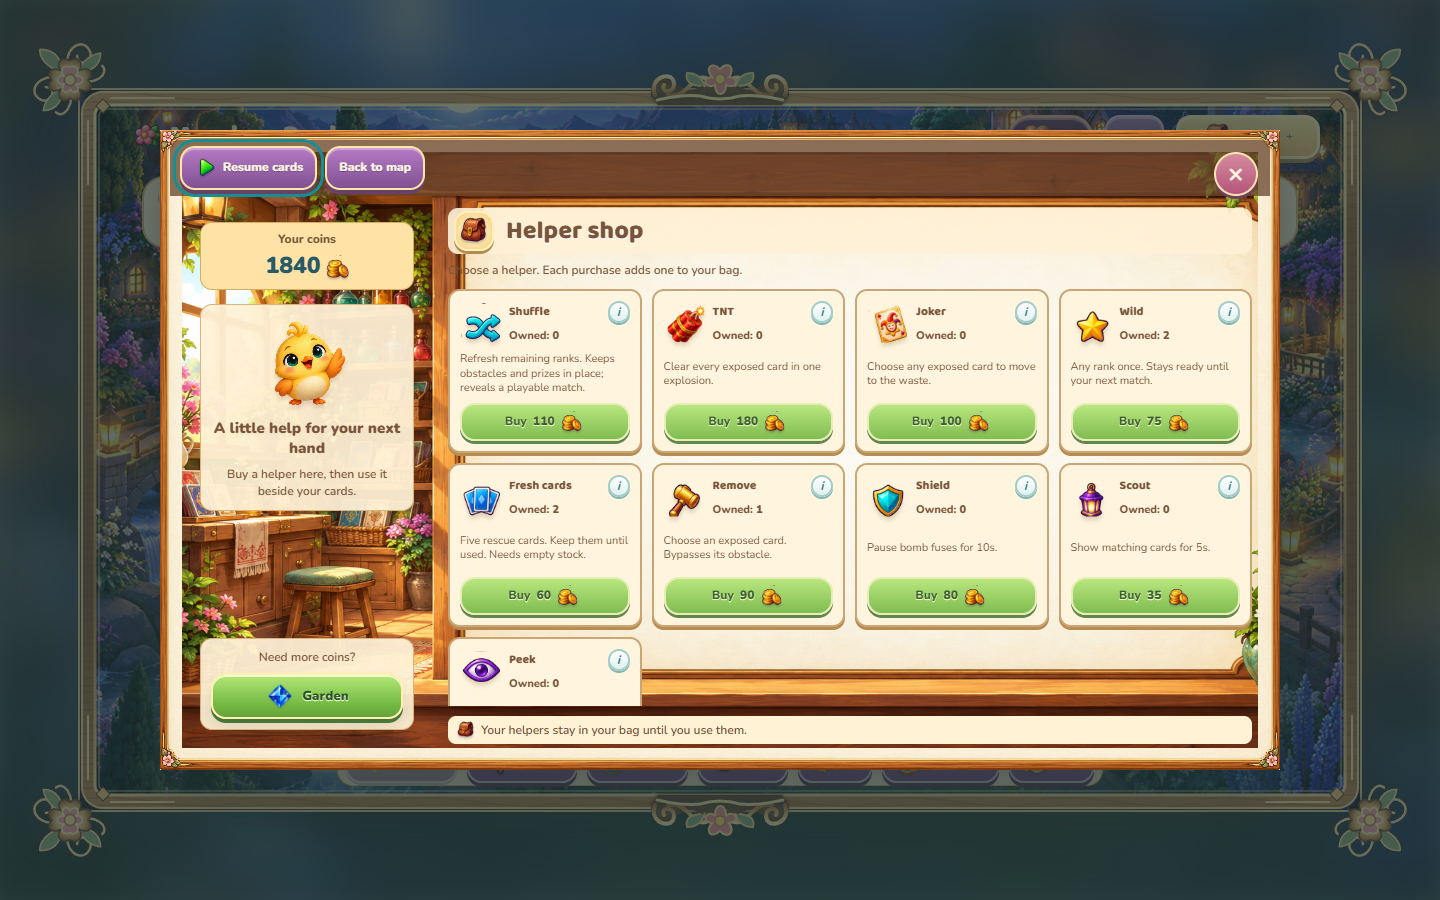
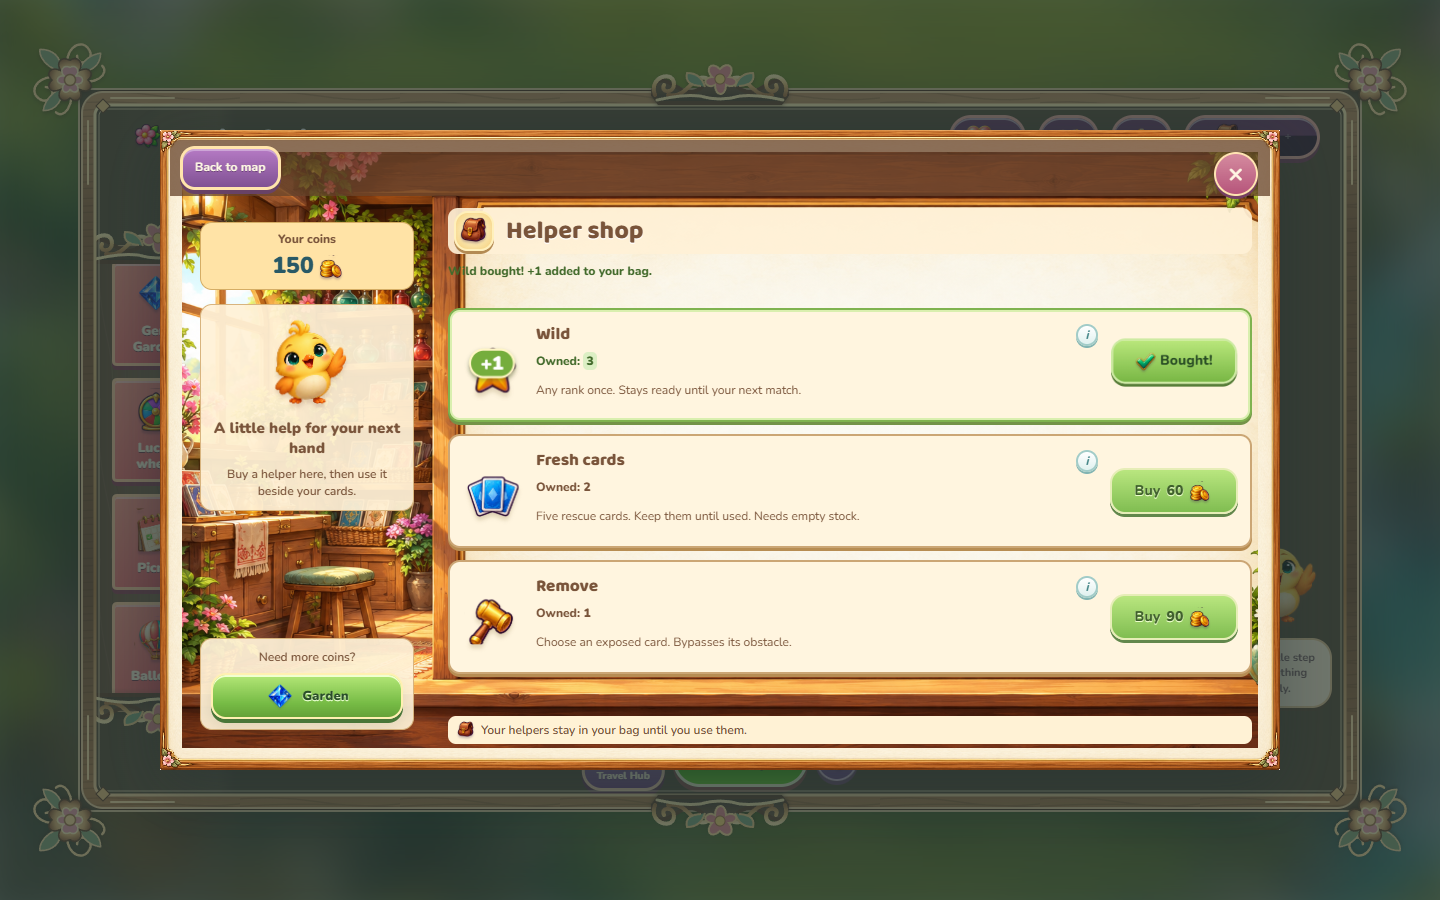
Confirm shop purchases with Bought feedback and floating item gains

diff --git a/web/index.html b/web/index.html
@@ -1,3 +1,3 @@
 <!doctype html>
 <!-- The fixed cabinet uses the shared browser/desktop modules. Styles load from base rules to surface-specific overrides; keep the import map aligned with the build version. -->
-<html lang="en"><head><meta charset="utf-8"><meta name="viewport" content="width=device-width,initial-scale=1"><meta name="meadow-build" content="2.5.4"><meta name="theme-color" content="#174d43"><title>Meadow Peaks · A little card adventure</title><link rel="icon" href="icon.svg" type="image/svg+xml"><link rel="stylesheet" href="style.css?v=2.5.4"><link rel="stylesheet" href="ui-theme.css?v=2.5.4"><link rel="stylesheet" href="map-ui.css?v=2.5.4"><link rel="stylesheet" href="help-ui.css?v=2.5.4"><link rel="stylesheet" href="progress-ui.css?v=2.5.4"><link rel="stylesheet" href="lives-ui.css?v=2.5.4"><link rel="stylesheet" href="settings-ui.css?v=2.5.4"><link rel="stylesheet" href="typography.css?v=2.5.4"><link rel="stylesheet" href="menu-polish.css?v=2.5.4"><link rel="stylesheet" href="mobile-polish.css?v=2.5.4"><link rel="stylesheet" href="story-play.css?v=2.5.4"><link rel="stylesheet" href="pip-home.css?v=2.5.4"><link rel="stylesheet" href="reference-polish.css?v=2.5.4"><link rel="stylesheet" href="adventure-restyle.css?v=2.5.4"><link rel="stylesheet" href="phone-ui.css?v=2.5.4"><link rel="stylesheet" href="framed-surfaces.css?v=2.5.4"><link rel="stylesheet" href="game-frame.css?v=2.5.4"><link rel="stylesheet" href="layout-720.css?v=2.5.4"><link rel="stylesheet" href="notice-board.css?v=2.5.4"><link rel="stylesheet" href="menu-boards.css?v=2.5.4"><link rel="stylesheet" href="menu-places.css?v=2.5.4"><link rel="stylesheet" href="guide-frames.css?v=2.5.4"><link rel="stylesheet" href="picnic-menu.css?v=2.5.4"></head><body><div class="landscape" aria-hidden="true"><div class="sun"></div><div class="cloud c1"></div><div class="cloud c2"></div><div class="hill far"></div><div class="hill middle"></div><div class="hill near"></div><span class="flower f1">✿</span><span class="flower f2">✿</span><span class="flower f3">✿</span></div><header><button data-action="home" class="brand">✿ <span>Meadow Peaks<small>A little card adventure</small></span></button><nav><button data-action="guide" aria-label="How to play">?</button><button data-action="settings" aria-label="Settings">⚙</button><button data-action="shop" class="wallet">● <span id="coins">300</span> <small>＋</small></button></nav></header><main id="app"></main><div id="toast" role="status" aria-live="polite"></div><dialog id="dialog"><div id="modal"></div><button class="close" data-action="close" aria-label="Close dialog">×</button></dialog><div id="sparks" aria-hidden="true"></div><footer>Made for unhurried adventures. <button data-action="guide">How to play</button></footer><script type="importmap">{"imports":{"./generated-content.mjs":"./generated-content.mjs?v=2.5.4","./celebration-effects.mjs":"./celebration-effects.mjs?v=2.5.4","./ambient-attention.mjs":"./ambient-attention.mjs?v=2.5.4","./game-frame.mjs":"./game-frame.mjs?v=2.5.4","./wheel-view.mjs":"./wheel-view.mjs?v=2.5.4","./hand-progress.mjs":"./hand-progress.mjs?v=2.5.4","./play-surface.mjs":"./play-surface.mjs?v=2.5.4","./rank-shuffle.mjs":"./rank-shuffle.mjs?v=2.5.4","./story-layouts-v4.mjs":"./story-layouts-v4.mjs?v=2.5.4","./pip-home.mjs":"./pip-home.mjs?v=2.5.4","./play-actions.mjs":"./play-actions.mjs?v=2.5.4","./motion.mjs":"./motion.mjs?v=2.5.4","./win-summary.mjs":"./win-summary.mjs?v=2.5.4","./tableau-viewport.mjs":"./tableau-viewport.mjs?v=2.5.4","./pip-view.mjs":"./pip-view.mjs?v=2.5.4","./chest-tiers.mjs":"./chest-tiers.mjs?v=2.5.4","./chest-view.mjs":"./chest-view.mjs?v=2.5.4","./state-art.mjs":"./state-art.mjs?v=2.5.4","./level-presentation.mjs":"./level-presentation.mjs?v=2.5.4","./win-rewards.mjs":"./win-rewards.mjs?v=2.5.4","./play-viewport.mjs":"./play-viewport.mjs?v=2.5.4","./audio-controls.mjs":"./audio-controls.mjs?v=2.5.4","./resource-view.mjs":"./resource-view.mjs?v=2.5.4","./level-preview.mjs":"./level-preview.mjs?v=2.5.4","./lives-panel.mjs":"./lives-panel.mjs?v=2.5.4","./ui-markup.mjs":"./ui-markup.mjs?v=2.5.4","./feature-tutorials.mjs":"./feature-tutorials.mjs?v=2.5.4","./celebration-effects.mjs":"./celebration-effects.mjs?v=2.5.4","./semantic-icons.mjs":"./semantic-icons.mjs?v=2.5.4","./progress-view.mjs":"./progress-view.mjs?v=2.5.4","./lives.mjs":"./lives.mjs?v=2.5.4","./menu-journey.mjs":"./menu-journey.mjs?v=2.5.4","./audio-engine.mjs":"./audio-engine.mjs?v=2.5.4","./presentation-flow.mjs":"./presentation-flow.mjs?v=2.5.4","./chapter-collection.mjs":"./chapter-collection.mjs?v=2.5.4","./side-activities.mjs":"./side-activities.mjs?v=2.5.4","./card-orientation.mjs":"./card-orientation.mjs?v=2.5.4","./progression.mjs":"./progression.mjs?v=2.5.4","./mode-scenes.mjs":"./mode-scenes.mjs?v=2.5.4","./visual-cues.mjs":"./visual-cues.mjs?v=2.5.4","./ui-shell.mjs":"./ui-shell.mjs?v=2.5.4","./art-catalog.mjs":"./art-catalog.mjs?v=2.5.4","./customization.mjs":"./customization.mjs?v=2.5.4","./journey-guide.mjs":"./journey-guide.mjs?v=2.5.4","./overworld-view.mjs":"./overworld-view.mjs?v=2.5.4","./story-layouts-v3.mjs":"./story-layouts-v3.mjs?v=2.5.4","./chapter-worlds.mjs":"./chapter-worlds.mjs?v=2.5.4","./storage-consent.mjs":"./storage-consent.mjs?v=2.5.4","./adventure-ui.mjs":"./adventure-ui.mjs?v=2.5.4","./adventure-hand.mjs":"./adventure-hand.mjs?v=2.5.4","./adventure-systems.mjs":"./adventure-systems.mjs?v=2.5.4","./adventure-map.mjs":"./adventure-map.mjs?v=2.5.4","./app.mjs":"./app.mjs?v=2.5.4","./board-view.mjs":"./board-view.mjs?v=2.5.4","./chapter-scene.mjs":"./chapter-scene.mjs?v=2.5.4","./core.mjs":"./core.mjs?v=2.5.4","./game-art.mjs":"./game-art.mjs?v=2.5.4","./gem-art.mjs":"./gem-art.mjs?v=2.5.4","./gem-view.mjs":"./gem-view.mjs?v=2.5.4","./helper-discovery.mjs":"./helper-discovery.mjs?v=2.5.4","./session.mjs":"./session.mjs?v=2.5.4","./story-layouts-v2.mjs":"./story-layouts-v2.mjs?v=2.5.4","./story-layouts.mjs":"./story-layouts.mjs?v=2.5.4"}}</script><script type="module" src="app.mjs?v=2.5.4"></script></body></html>
+<html lang="en"><head><meta charset="utf-8"><meta name="viewport" content="width=device-width,initial-scale=1"><meta name="meadow-build" content="2.5.5"><meta name="theme-color" content="#174d43"><title>Meadow Peaks · A little card adventure</title><link rel="icon" href="icon.svg" type="image/svg+xml"><link rel="stylesheet" href="style.css?v=2.5.5"><link rel="stylesheet" href="ui-theme.css?v=2.5.5"><link rel="stylesheet" href="map-ui.css?v=2.5.5"><link rel="stylesheet" href="help-ui.css?v=2.5.5"><link rel="stylesheet" href="progress-ui.css?v=2.5.5"><link rel="stylesheet" href="lives-ui.css?v=2.5.5"><link rel="stylesheet" href="settings-ui.css?v=2.5.5"><link rel="stylesheet" href="typography.css?v=2.5.5"><link rel="stylesheet" href="menu-polish.css?v=2.5.5"><link rel="stylesheet" href="mobile-polish.css?v=2.5.5"><link rel="stylesheet" href="story-play.css?v=2.5.5"><link rel="stylesheet" href="pip-home.css?v=2.5.5"><link rel="stylesheet" href="reference-polish.css?v=2.5.5"><link rel="stylesheet" href="adventure-restyle.css?v=2.5.5"><link rel="stylesheet" href="phone-ui.css?v=2.5.5"><link rel="stylesheet" href="framed-surfaces.css?v=2.5.5"><link rel="stylesheet" href="game-frame.css?v=2.5.5"><link rel="stylesheet" href="layout-720.css?v=2.5.5"><link rel="stylesheet" href="notice-board.css?v=2.5.5"><link rel="stylesheet" href="menu-boards.css?v=2.5.5"><link rel="stylesheet" href="menu-places.css?v=2.5.5"><link rel="stylesheet" href="guide-frames.css?v=2.5.5"><link rel="stylesheet" href="picnic-menu.css?v=2.5.5"><link rel="stylesheet" href="shop-feedback.css?v=2.5.5"></head><body><div class="landscape" aria-hidden="true"><div class="sun"></div><div class="cloud c1"></div><div class="cloud c2"></div><div class="hill far"></div><div class="hill middle"></div><div class="hill near"></div><span class="flower f1">✿</span><span class="flower f2">✿</span><span class="flower f3">✿</span></div><header><button data-action="home" class="brand">✿ <span>Meadow Peaks<small>A little card adventure</small></span></button><nav><button data-action="guide" aria-label="How to play">?</button><button data-action="settings" aria-label="Settings">⚙</button><button data-action="shop" class="wallet">● <span id="coins">300</span> <small>＋</small></button></nav></header><main id="app"></main><div id="toast" role="status" aria-live="polite"></div><dialog id="dialog"><div id="modal"></div><button class="close" data-action="close" aria-label="Close dialog">×</button></dialog><div id="sparks" aria-hidden="true"></div><footer>Made for unhurried adventures. <button data-action="guide">How to play</button></footer><script type="importmap">{"imports":{"./shop-feedback.mjs":"./shop-feedback.mjs?v=2.5.5","./generated-content.mjs":"./generated-content.mjs?v=2.5.5","./celebration-effects.mjs":"./celebration-effects.mjs?v=2.5.5","./ambient-attention.mjs":"./ambient-attention.mjs?v=2.5.5","./game-frame.mjs":"./game-frame.mjs?v=2.5.5","./wheel-view.mjs":"./wheel-view.mjs?v=2.5.5","./hand-progress.mjs":"./hand-progress.mjs?v=2.5.5","./play-surface.mjs":"./play-surface.mjs?v=2.5.5","./rank-shuffle.mjs":"./rank-shuffle.mjs?v=2.5.5","./story-layouts-v4.mjs":"./story-layouts-v4.mjs?v=2.5.5","./pip-home.mjs":"./pip-home.mjs?v=2.5.5","./play-actions.mjs":"./play-actions.mjs?v=2.5.5","./motion.mjs":"./motion.mjs?v=2.5.5","./win-summary.mjs":"./win-summary.mjs?v=2.5.5","./tableau-viewport.mjs":"./tableau-viewport.mjs?v=2.5.5","./pip-view.mjs":"./pip-view.mjs?v=2.5.5","./chest-tiers.mjs":"./chest-tiers.mjs?v=2.5.5","./chest-view.mjs":"./chest-view.mjs?v=2.5.5","./state-art.mjs":"./state-art.mjs?v=2.5.5","./level-presentation.mjs":"./level-presentation.mjs?v=2.5.5","./win-rewards.mjs":"./win-rewards.mjs?v=2.5.5","./play-viewport.mjs":"./play-viewport.mjs?v=2.5.5","./audio-controls.mjs":"./audio-controls.mjs?v=2.5.5","./resource-view.mjs":"./resource-view.mjs?v=2.5.5","./level-preview.mjs":"./level-preview.mjs?v=2.5.5","./lives-panel.mjs":"./lives-panel.mjs?v=2.5.5","./ui-markup.mjs":"./ui-markup.mjs?v=2.5.5","./feature-tutorials.mjs":"./feature-tutorials.mjs?v=2.5.5","./celebration-effects.mjs":"./celebration-effects.mjs?v=2.5.5","./semantic-icons.mjs":"./semantic-icons.mjs?v=2.5.5","./progress-view.mjs":"./progress-view.mjs?v=2.5.5","./lives.mjs":"./lives.mjs?v=2.5.5","./menu-journey.mjs":"./menu-journey.mjs?v=2.5.5","./audio-engine.mjs":"./audio-engine.mjs?v=2.5.5","./presentation-flow.mjs":"./presentation-flow.mjs?v=2.5.5","./chapter-collection.mjs":"./chapter-collection.mjs?v=2.5.5","./side-activities.mjs":"./side-activities.mjs?v=2.5.5","./card-orientation.mjs":"./card-orientation.mjs?v=2.5.5","./progression.mjs":"./progression.mjs?v=2.5.5","./mode-scenes.mjs":"./mode-scenes.mjs?v=2.5.5","./visual-cues.mjs":"./visual-cues.mjs?v=2.5.5","./ui-shell.mjs":"./ui-shell.mjs?v=2.5.5","./art-catalog.mjs":"./art-catalog.mjs?v=2.5.5","./customization.mjs":"./customization.mjs?v=2.5.5","./journey-guide.mjs":"./journey-guide.mjs?v=2.5.5","./overworld-view.mjs":"./overworld-view.mjs?v=2.5.5","./story-layouts-v3.mjs":"./story-layouts-v3.mjs?v=2.5.5","./chapter-worlds.mjs":"./chapter-worlds.mjs?v=2.5.5","./storage-consent.mjs":"./storage-consent.mjs?v=2.5.5","./adventure-ui.mjs":"./adventure-ui.mjs?v=2.5.5","./adventure-hand.mjs":"./adventure-hand.mjs?v=2.5.5","./adventure-systems.mjs":"./adventure-systems.mjs?v=2.5.5","./adventure-map.mjs":"./adventure-map.mjs?v=2.5.5","./app.mjs":"./app.mjs?v=2.5.5","./board-view.mjs":"./board-view.mjs?v=2.5.5","./chapter-scene.mjs":"./chapter-scene.mjs?v=2.5.5","./core.mjs":"./core.mjs?v=2.5.5","./game-art.mjs":"./game-art.mjs?v=2.5.5","./gem-art.mjs":"./gem-art.mjs?v=2.5.5","./gem-view.mjs":"./gem-view.mjs?v=2.5.5","./helper-discovery.mjs":"./helper-discovery.mjs?v=2.5.5","./session.mjs":"./session.mjs?v=2.5.5","./story-layouts-v2.mjs":"./story-layouts-v2.mjs?v=2.5.5","./story-layouts.mjs":"./story-layouts.mjs?v=2.5.5"}}</script><script type="module" src="app.mjs?v=2.5.5"></script></body></html>

diff --git a/web/shop-feedback.css b/web/shop-feedback.css
@@ -1,0 +1,31 @@
+/* A receipt occupies the existing instruction lane, keeping shelf geometry stable. */
+#dialog[data-place=shop] .shop-instructions {min-height:36px;line-height:18px}
+#dialog[data-place=shop] .shop-purchase-message {color:#426a2b;font-weight:800}
+#dialog[data-place=shop] #modal .shop article.shop-purchased {
+ border-color:#7fb34f;box-shadow:0 3px #739348,inset 0 0 0 2px #d9efaf;
+}
+#dialog[data-place=shop] #modal .shop article>.icon {position:relative}
+#dialog[data-place=shop] #modal .shop article.shop-purchased>.shop-buy {
+ background:linear-gradient(#b9e77b,#79b745)!important;color:#284c24;
+ border-color:#cdeaa3;box-shadow:0 3px #577d38;filter:none;text-shadow:none;
+}
+.shop-purchased .basket-count {color:#426a2b!important;font-weight:800}
+.shop-purchased [data-owned] {display:inline-block;border-radius:5px;background:#dcefc4;padding:0 3px}
+.shop-purchase-pop {
+ position:absolute;z-index:2;left:50%;top:48%;transform:translate(-50%,-50%);
+ min-width:42px;padding:3px 5px;white-space:nowrap;border:2px solid #fff6c7;border-radius:14px;
+ background:#75ad3d;color:white;box-shadow:0 2px 4px #34532866;
+ text-align:center;font:900 17px/1 var(--font-ui);pointer-events:none;
+ animation:shop-purchase-rise 1.4s ease-out both;
+}
+.shop-purchased:not(.shop-purchase-static)>.icon>.game-icon {animation:shop-item-bought .6s ease-out}
+.shop-purchase-static .shop-purchase-pop {animation:none}
+@keyframes shop-purchase-rise {
+ 0%{transform:translate(-50%,-25%) scale(.6);opacity:0}
+ 18%{transform:translate(-50%,-50%) scale(1.12);opacity:1}
+ 65%{transform:translate(-50%,-65%) scale(1);opacity:1}
+ 100%{transform:translate(-50%,-100%) scale(.96);opacity:0}
+}
+@keyframes shop-item-bought {0%,100%{scale:1}40%{scale:1.14}70%{scale:.96}}
+@media(prefers-reduced-motion:reduce){.shop-purchase-pop,.shop-purchased>.icon>.game-icon{animation:none!important}}
+.reduced .shop-purchase-pop,.reduced .shop-purchased>.icon>.game-icon{animation:none!important}

diff --git a/scripts/test_shop_feedback.py b/scripts/test_shop_feedback.py
@@ -1,0 +1,54 @@
+"""Purchases visibly confirm the exact +1 without changing transaction or scroll behavior."""
+import asyncio,os
+from pathlib import Path
+from playwright.async_api import async_playwright
+
+# Open the real shop so purchase feedback runs after the session has saved the transaction.
+async def open_shop(page):
+ await page.evaluate("()=>{const b=document.createElement('button');b.dataset.action='shop';document.body.append(b);b.click();b.remove()}")
+
+# Exercise animated/static feedback, rapid repeat purchases and buying the last affordable item.
+async def main():
+ out=Path('artifacts/shop-feedback');out.mkdir(exist_ok=True)
+ async with async_playwright() as p:
+  browser=await p.chromium.launch(channel='msedge',headless=True)
+  for width,height,reduced in [(1440,900,False),(1440,900,True),(700,432,True)]:
+   page=await browser.new_page(viewport={'width':width,'height':height},reduced_motion='reduce' if reduced else 'no-preference');errors=[];page.on('pageerror',lambda e:errors.append(str(e)))
+   await page.add_init_script("localStorage.setItem('meadow-storage-consent','yes')")
+   await page.goto(os.environ.get('MEADOW_TEST_URL','http://127.0.0.1:8765/'))
+   await page.evaluate("async()=>{const {Session}=await import('./session.mjs'),{features}=await import('./journey-guide.mjs');const s=new Session();s.p.Unlocked=3;s.p.Coins=225;s.p.GuideSeen=features.map(f=>f.id);s.save()}");await page.reload();await open_shop(page)
+   card=page.locator('[data-shop-helper=wild]');await card.scroll_into_view_if_needed()
+   await card.locator('.shop-buy').hover();await page.wait_for_timeout(300)
+   before=await card.bounding_box();await card.locator('.shop-buy').click()
+   await page.locator('.shop-purchase-message').filter(has_text='+1 added to your bag').wait_for()
+   card=page.locator('[data-shop-helper=wild]');assert await card.locator('[data-owned]').inner_text()=='3'
+   assert await card.locator('.shop-buy').inner_text()=='Bought!'
+   assert await card.locator('.shop-purchase-pop').inner_text()=='+1'
+   assert await card.bounding_box()==before,'Receipt moved the product card'
+   assert await card.locator('.shop-purchase-pop').evaluate("(e,reduced)=>reduced?getComputedStyle(e).animationName==='none':e.getAnimations().length>0",reduced)
+   assert await card.locator('.shop-buy').evaluate("e=>{const a=e.getBoundingClientRect(),b=e.closest('article').getBoundingClientRect();return a.left>=b.left&&a.right<=b.right&&a.top>=b.top&&a.bottom<=b.bottom}")
+   await page.wait_for_timeout(250)
+   assert await card.locator('.shop-purchase-pop').evaluate('e=>e.scrollWidth<=e.clientWidth'),'+1 wraps or clips'
+   await page.screenshot(path=str(out/f'bought-{width}-{reduced}.png'))
+   # A second click during Bought! is another intentional purchase, not a second grant from the animation.
+   await card.locator('.shop-buy').click();assert await page.locator('[data-owned=wild]').inner_text()=='4'
+   await page.locator('[data-shop-helper=wild] .shop-buy').click();assert await page.locator('[data-owned=wild]').inner_text()=='5'
+   assert await page.locator('[data-shop-helper=wild] .shop-buy').is_disabled()
+   await page.wait_for_timeout(1900)
+   assert await page.locator('.shop-purchase-pop').count()==0
+   assert await page.locator('[data-shop-helper=wild] .shop-buy').inner_text()!='Bought!'
+   saved=await page.evaluate("async()=>{const {Session}=await import('./session.mjs');const s=new Session();return [s.p.Coins,s.inventory('wild')]}")
+   assert saved==[0,5],saved
+   if width==1440 and not reduced:
+    # Confirmations for different helpers coexist, and their timers restore current prices independently.
+    await page.evaluate("async()=>{const {Session}=await import('./session.mjs');const s=new Session();s.p.Coins=1000;s.save()}");await page.reload();await open_shop(page)
+    await page.locator('[data-action="buy:wild"]').click();await page.locator('[data-action="buy:extra"]').click()
+    assert await page.locator('.shop-purchased').count()==2
+    assert await page.locator('.shop-purchased .shop-buy').all_text_contents()==['Bought!','Bought!']
+    await page.wait_for_timeout(1900);assert await page.locator('.shop-purchased').count()==0
+    assert '75' in await page.locator('[data-action="buy:wild"]').inner_text()
+    assert '60' in await page.locator('[data-action="buy:extra"]').inner_text()
+   assert not errors,errors;await page.close()
+  await browser.close()
+ print('PASS: Bought!/floating +1 and owned count agree; cards stay still; repeated buys grant exactly one each; unaffordable buys disable; feedback cleans up and honors reduced motion.')
+asyncio.run(main())

diff --git a/docs/MENU-FRAMES.md b/docs/MENU-FRAMES.md
@@ -13,3 +13,7 @@ Both assets were produced with the built-in imagegen tool. The help-frame prompt
 Adventure and collection menus now use the same fixed-surface model as Settings: the complete painting belongs to the dialog, the modal is inset onto its paper, and only the content page scrolls. The translucent full-page wash and second border are removed. Picnic stays 960 by 600 logical pixels rather than stretching its painting when Pip appears; overflow stays inside the linen area. Navigation and close controls avoid the basket, teacup and decorative rails. Narrow Travel and Milestones rows stack their actions so labels retain usable space.
 
 `test_menu_surfaces.py` verifies paper bounds, complete background coverage and stationary navigation/frame geometry during wheel scrolling. The existing Settings book checks and 26-menu, three-size audit also pass.
+
+## Shop receipts (2.5.5)
+
+A saved helper purchase updates the existing shelf nodes instead of rebuilding the menu. The selected card briefly shows Bought!, a floating +1 and an item bounce; its owned count is highlighted. A local receipt message remains readable above the shelf. Reduced motion keeps the text confirmation without animated movement. Receipt timers are independent per item and restart for repeat purchases; they never grant items or debit coins. `test_shop_feedback.py` checks real transactions, stable cards, repeated purchases, affordability and receipt cleanup.

diff --git a/README.md b/README.md
@@ -47,7 +47,7 @@ The first chapter introduces Gem Garden, the daily picnic, Lucky Wheel, albums, 
 
 Helpers unlock through progress and obstacle discovery. Pip introduces places, explains tools, and offers a tip after repeated mistakes. Rewards are saved before their animations, so interrupted effects cannot duplicate prizes.
 
-![Owned quantities and prices on the illustrated shop board](docs/screenshots/shop.png)
+![Purchase confirmation, owned quantities and prices on the illustrated shop board](docs/screenshots/shop.png)
 
 ## More little adventures
 
